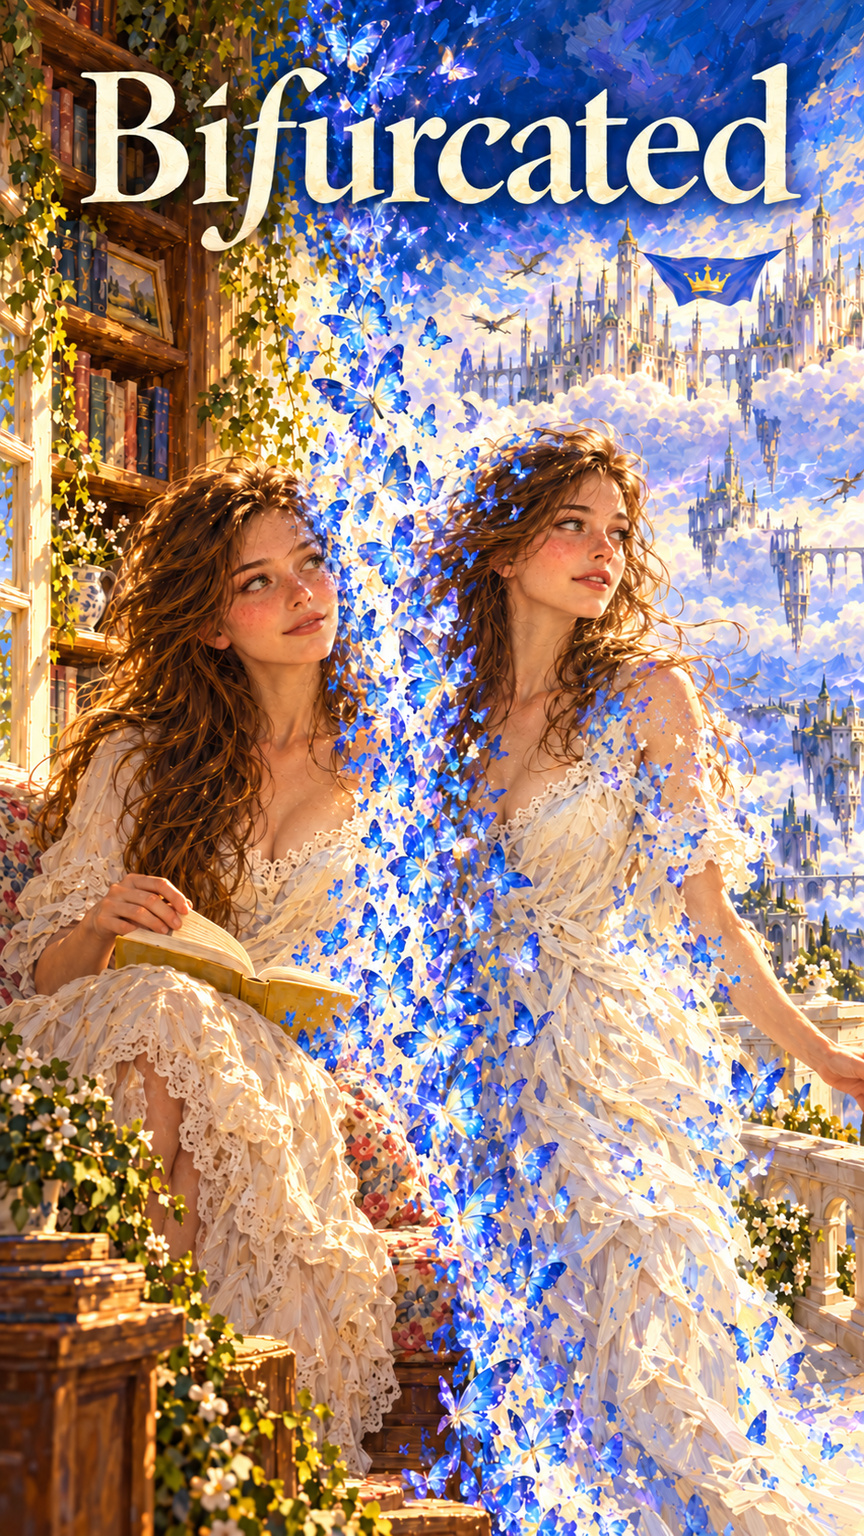
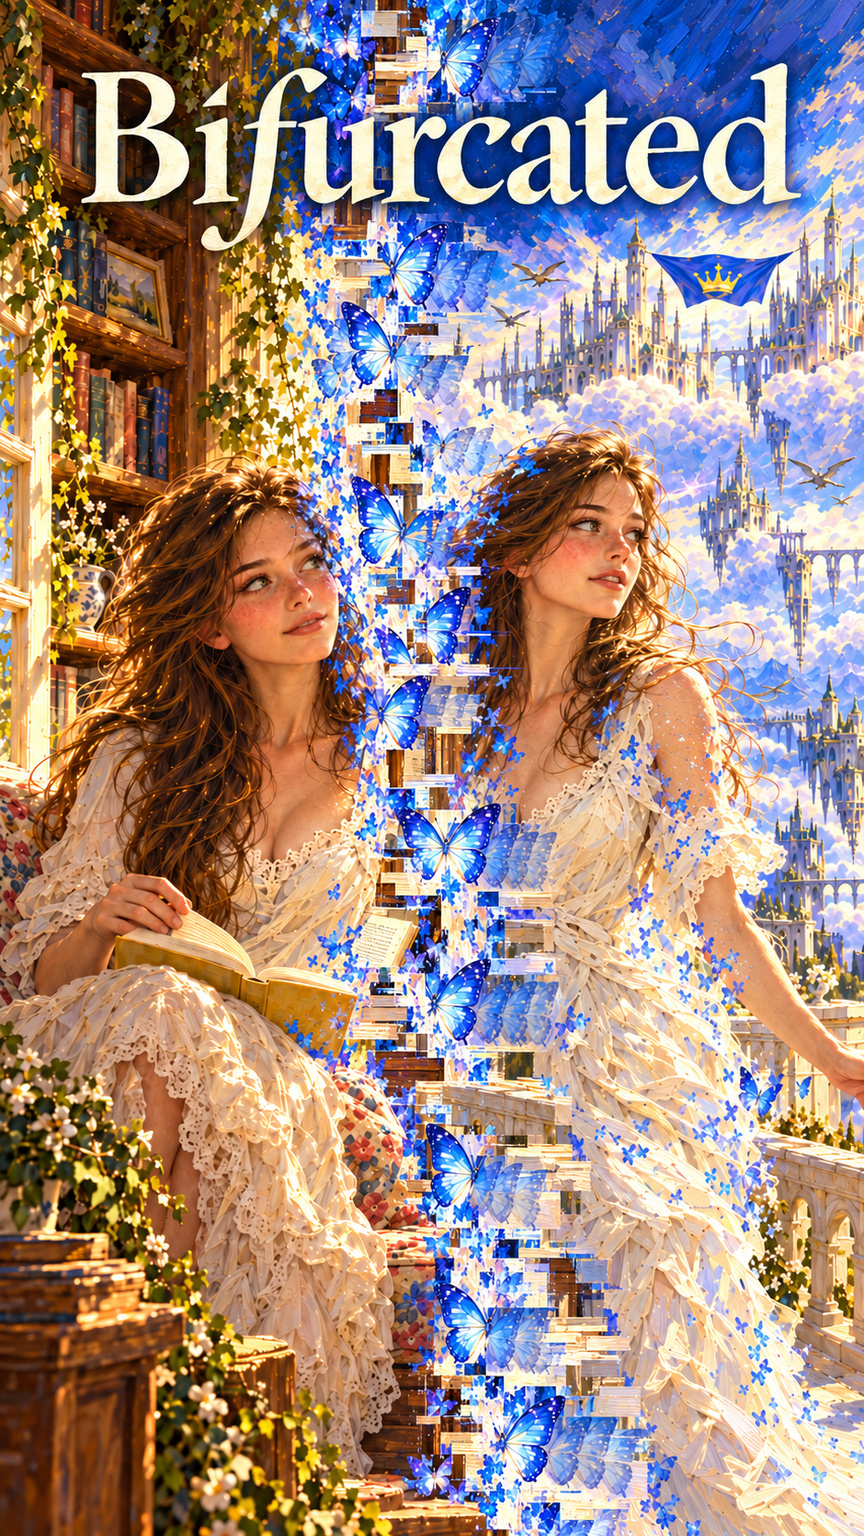
Make butterfly patches expose the rendering paradox

diff --git a/stories/bifurcated/notes.md b/stories/bifurcated/notes.md
@@ -29,3 +29,7 @@
 **Handoff checks.** Prompt, whole prose, and original image remain unchanged from the final checkpoint. The package contains the expected eleven files; five accepted images decode at their required formats and dimensions. The media manifest accepts all five and excludes the supplied original. All five existing media tests pass. These checks support packaging and export, not literary judgment.
 
 **Cover revision, 2026-10-28.** The user requested the two versions on opposite sides, then specified butterflies as the boundary between simulations; both directions are preserved verbatim in `prompt.md`. The new composition gives the two Romys comparable prominence: warm book-lined home on the left, luminous kingdom on the right, separated by a continuous irregular seam of blue butterflies. Existing character/location references and the supplied original preserve identity and setting. Built-in imagegen recomposed the cover, followed by a local correction to the home manifestation’s left hand; her right hand holds the page while the book rests on her lap. The 864×1536 JPEG was inspected for the boundary, two identities, coherent anatomy, setting separation, and single readable title before replacement. Previous cover and candidates remain under `tmp/bifurcated/cover-side-by-side/`; Git preserves the committed earlier cover. The prose, outline, supplied original and accepted references are unchanged. These are art-only directions, so no prose review or fidelity restart was triggered. Finished prose and revised cover were reassessed together: **General**, with the existing content notes retained.
+
+**Butterfly meaning clarification, 2026-10-28.** The latest direction, preserved verbatim in `prompt.md`, makes the butterflies both renders’ attempt to conceal the paradox. Four local passages now show that function: a stone-grained word covered by an exactly repeated landing, a jumping leg outline hidden by repeated blue shapes, the administrator explaining that the butterflies belong to neither place, and a final settlement replayed on Romy’s wrist. The former “holding itself together out of habit” formulation was removed because it suggested a voluntary magical transformation. This is a bounded meaning clarification; scene order, independent turn, refusal, separate consent, and held-page ending are preserved. A fresh independent Codex reader read the complete request, whole prose, and supplied original, and understood the butterflies as “an imperfect patch generated by both simulations” while the second person’s own choices establish personhood separately. It found no material repair necessary. Its mild optical-versus-sensory hesitation is retained as useful dissent: the existing complete simulated touch and balance support butterfly feet and flight, so the coordinator keeps the visual explanation concise. Earlier Decisions results remain the history of initial production; this localized change received the independent contextual reading required for a meaning edit, without a structural restart.
+
+**Glitch cover and rating.** The side-by-side layout and butterfly boundary remain. Built-in imagegen added conspicuously repeated butterfly assets and clipped, misregistered fragments of wood, book print, and stone underneath them: the images expose the renders’ imperfect attempt at concealment. Both faces, identities, settings, and title stay coherent. Existing reference art continues to guide the displayed forms and does not establish the butterflies as ordinary wildlife or magic. The final 864×1536 JPEG was inspected after export; the prior cover, candidate, prompt, and contextual report are under `tmp/bifurcated/glitch-clarification/`. Finished prose and revised cover were reassessed together as **General**; the glitches remain painless and non-graphic. No shared canon changes are proposed.

diff --git a/stories/bifurcated/story.md b/stories/bifurcated/story.md
@@ -20,13 +20,13 @@ She laid the book across her knees and shut her eyes. The room and the kingdom w
 
 She had visited beautiful places in the Oasis. Usually she knew where to put her attention. Here the brass window catch and the distant palace occupied the same unmeasurable distance from her. She could see each clearly, but could not make them agree about where she was.
 
-A butterfly settled on the page beside the resurrected husband. She felt its feet touch the paper.
+A butterfly settled on the page beside the resurrected husband. She felt its feet touch the paper. Beneath it, a word briefly acquired the grain of terrace stone. Blue wings opened over the mismatch. Then the butterfly landed again, on the same word, with the same precise tilt.
 
 Romy laughed, then stopped laughing long enough to look at the place where her shoulder should have been. She could feel that too: a soft disturbance in the air, no wound, no waiting pain. She tried lifting her missing arm. Blue wings rose around the window, and on the terrace they made a sleeve through which the sky showed. She wanted to see what would happen outside.
 
 With her solid hand she opened the window. At the railing she leaned forward. The height tightened her belly; the cushion under her made her absurdly brave. She could stay exactly where she was and go.
 
-The first step was a stumble into empty air. Then she discovered how much of her had been holding itself together out of habit. Her legs loosened into a drift of blue. Her hair streamed apart in fine, bright threads. She spread without falling, a long shape of wings with the suggestion of a woman inside it.
+The first step was a stumble into empty air. The outline of her legs jumped back to the terrace, then forward beneath her. Butterflies filled the gap, the same few blue shapes repeating until the broken outline was hidden. Her hair streamed apart in fine, bright threads. She spread without falling, a long shape of wings with the suggestion of a woman inside it.
 
 Below her, the city spread too. Tiny people crossed bridges between roofs. Someone shook a red tablecloth out of an upper window. The silver fires bent in the wind, pointing toward the palace. The bells she had heard from the terrace acquired separate notes as she passed them, one harsh and close, another so deep she felt it through the cushion against her back. She laughed again, helplessly.
 
@@ -75,6 +75,14 @@ There was a pause.
 “To which place?” Romy asked. “Which one am I supposed to be in?”
 
 “Your room,” the woman said. “That's the afternoon you booked. The kingdom was queued for somebody else. Both simulations are rendering you from the same session.”
+
+“The butterflies weren't in the room,” Romy said.
+
+“They aren't part of either place. Both renders are painting them over the places they can't make agree.”
+
+“To repair it?”
+
+“To make the picture hold together while the fault is still there.”
 
 Romy tried to imagine the stranger who was supposed to be here, whoever had chosen bells and bronze feathers. She hoped they had not got a dull error message instead.
 
@@ -220,6 +228,6 @@ At home, she kept her eyes on the line. The surprise was there already, deliciou
 
 “Almost.”
 
-The golden crown raced along the pennant. Blue wings streamed under it, while at home a loose butterfly rose from the window and settled on Romy's wrist.
+The golden crown raced along the pennant. Blue wings streamed under it, while at home a loose butterfly rose from the window and settled on Romy's wrist. It settled twice, the same small movement laid over itself.
 
 Romy held the page.

diff --git a/stories/bifurcated/ratings.md b/stories/bifurcated/ratings.md
@@ -1,5 +1,5 @@
 # Content rating
 
 - **Rating:** General
-- **Content notes:** Painless bodily dispersal into butterflies; brief disorientation and anxiety about identity; a minor hand impact leaving a red mark.
-- **Reason:** Distress is brief and non-graphic. The revised cover presents the two manifestations and butterfly boundary gently, with no injury detail. Reassessed against the final prose and revised cover on 2026-10-28.
+- **Content notes:** Painless rendering glitches that make the body appear to disperse into butterflies; brief disorientation and anxiety about identity; a minor hand impact leaving a red mark.
+- **Reason:** Distress is brief and non-graphic. The revised cover uses repeated butterflies and misaligned image fragments to expose the rendering fault, with no injury detail. Reassessed against the revised prose and cover on 2026-10-28.

diff --git a/stories/bifurcated/prompt.md b/stories/bifurcated/prompt.md
@@ -25,3 +25,9 @@ the cover image could use work; i think it better with the 2 versions on either 
 use the butterflies as the boundary between simulations for the picture.
 
 Editorial scope: these directions concern the cover composition and do not request a prose revision.
+
+## Later user direction — butterfly glitch
+
+we need make sure the blue butterflies are like the black cat in the matrix: showing a glitch. They should be the means the renders to try cover for the paradox.
+
+Editorial interpretation: the butterflies are the simulations’ attempt to conceal incompatible renders. Repeated motions and imperfect visual patches are chosen cues for that meaning; the film comparison does not request a crossover. This clarification applies to their meaning in the prose and their depiction in the cover.
